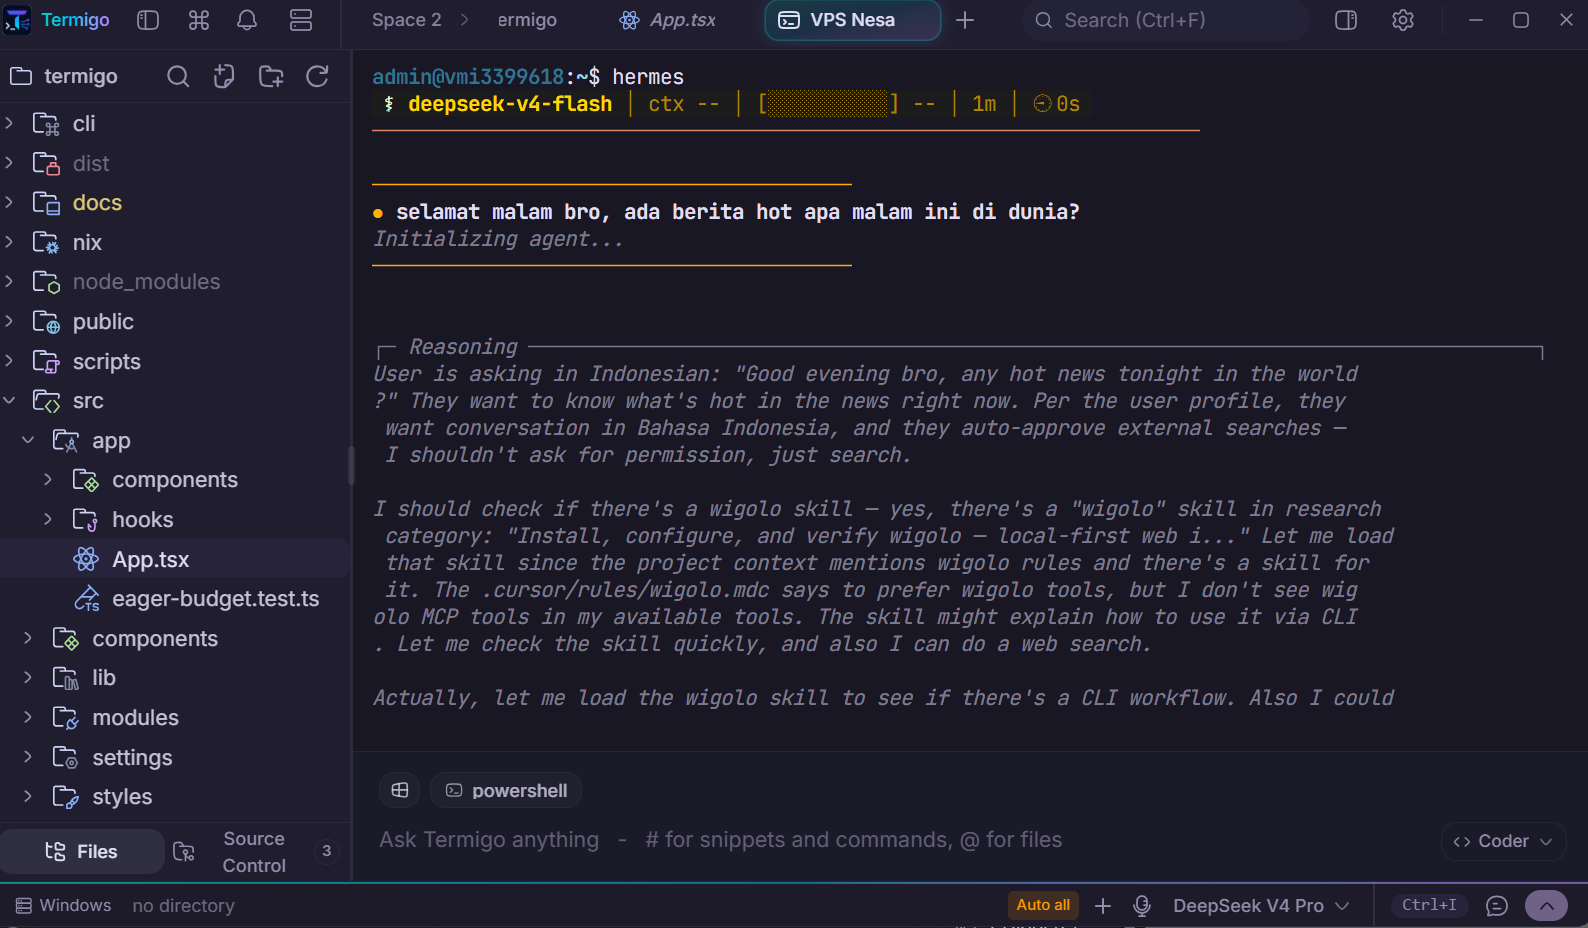
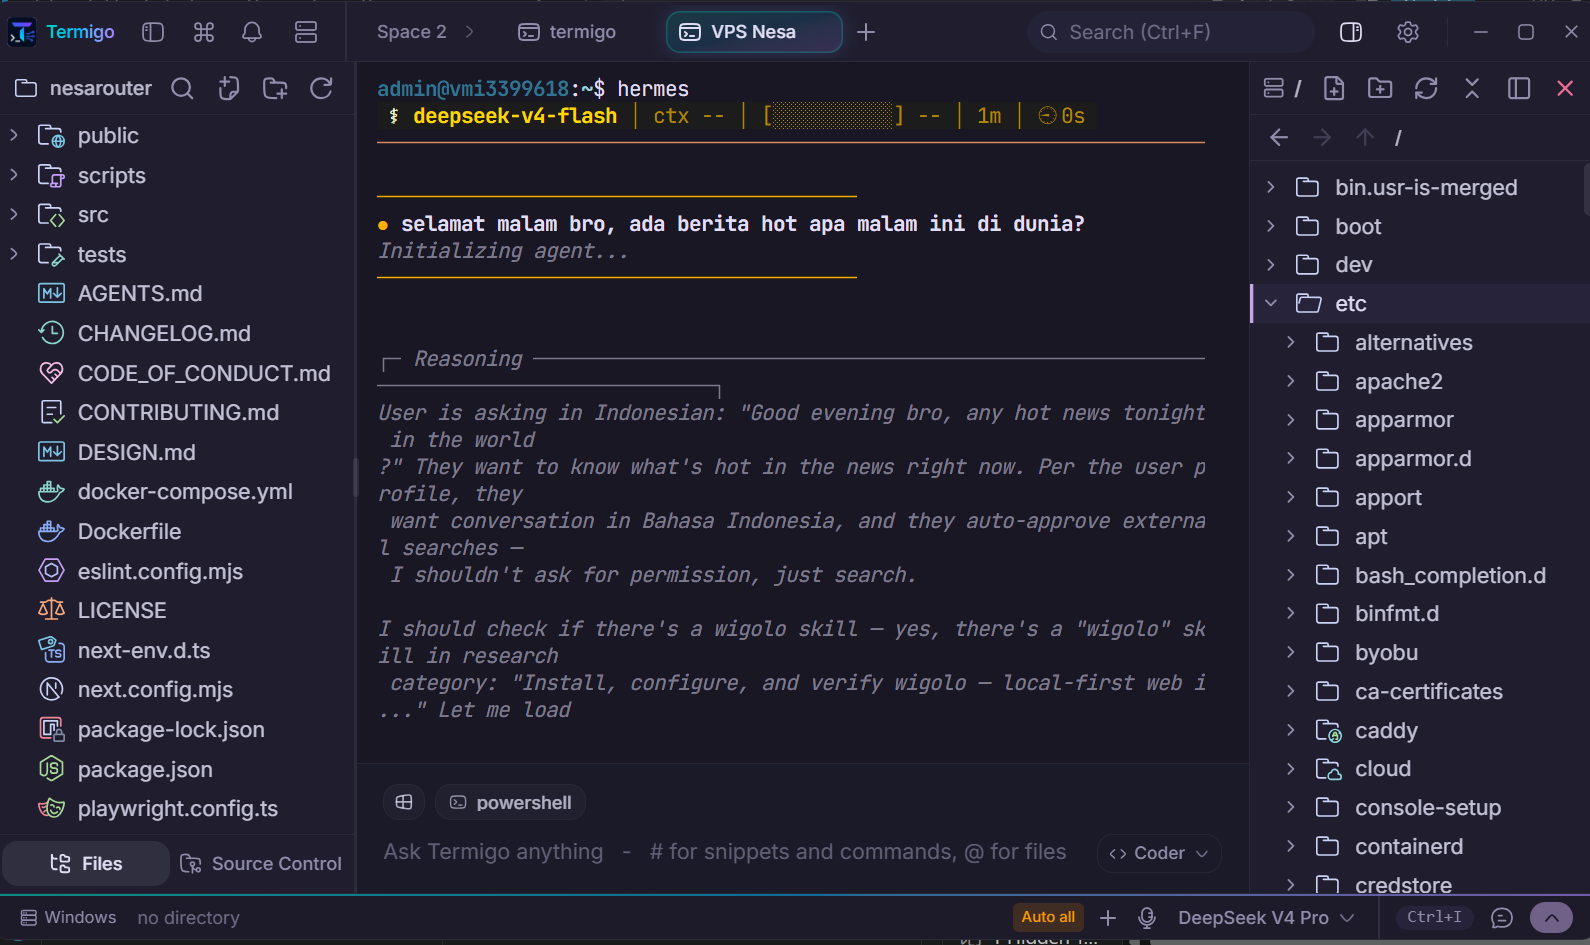
docs: add the remote-server screenshot and correct a caption
termigo-windows.png was captioned as an approval gate with a diff and todos.
The image shows none of those - it is the editor with the agent panel over it -
so the caption described a screenshot that does not exist.

The remote shot now shows the agent inspecting a server: an SSH tab, the remote
filesystem beside the local tree, and a health report gathered from the host.

diff --git a/README.md b/README.md
@@ -296,9 +296,19 @@ See [`docs/`](docs/) for the MCP, skills, agents, and architecture guides.
   <img src="docs/termigo-windows.png" alt="Termigo on Windows" width="900" />
   <br/>
   <sub>
-    Agent run under review: a <code>write_file</code> call held at the approval
-    gate, its diff open in the editor, todos tracking the plan, and spaces
-    across the top
+    The workspace: file tree, editor with the TypeScript LSP attached, the
+    agent panel floating over it, spaces and tabs across the top, and the
+    approval mode always visible in the status bar
+  </sub>
+</p>
+
+<p align="center">
+  <img src="docs/termigo-remote-vps.png" alt="The agent inspecting a remote server over SSH" width="900" />
+  <br/>
+  <sub>
+    The agent working on a server: an SSH tab, the remote filesystem browsable
+    beside the local project, and a health report it gathered by running
+    inspection commands on the host
   </sub>
 </p>
 
